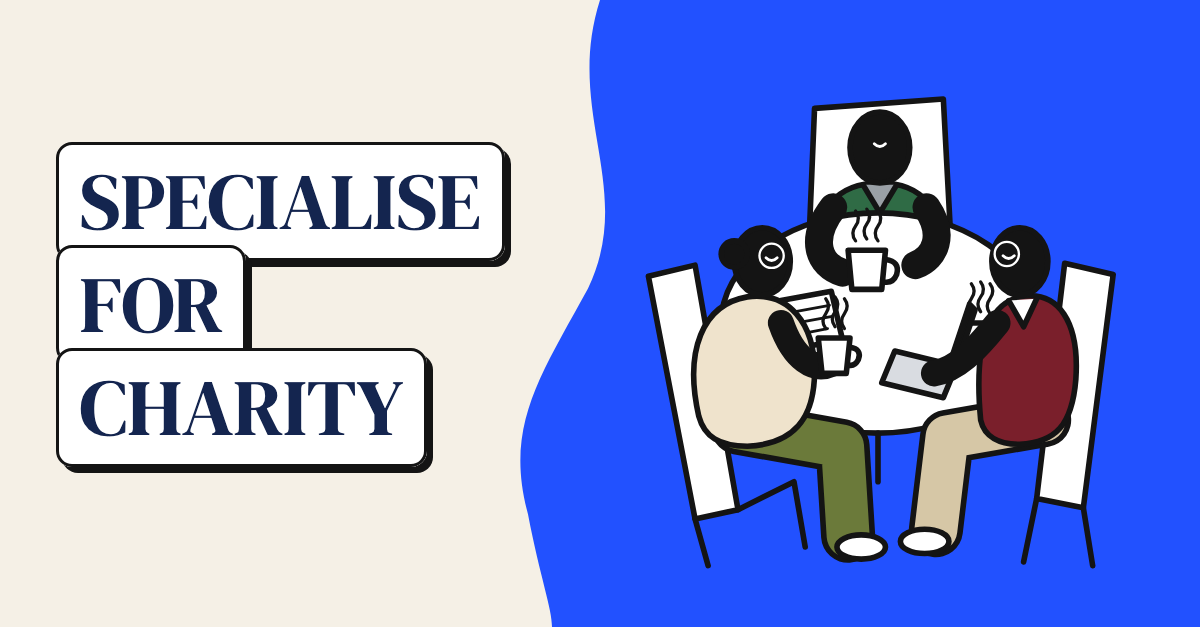
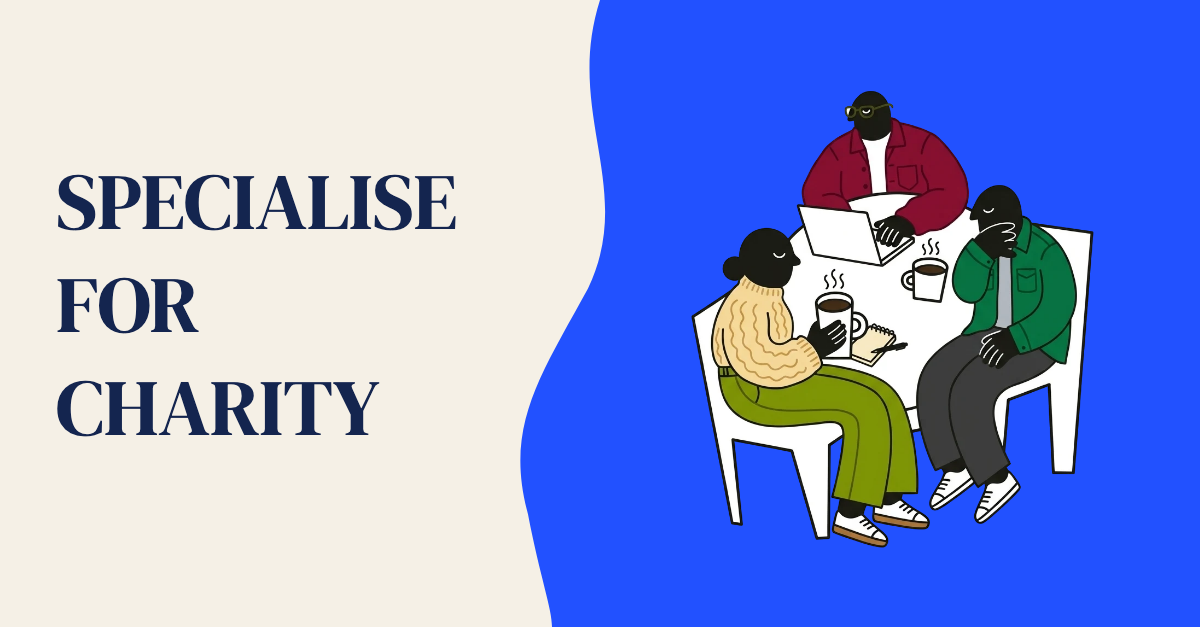
Sharing image: remake og-image.png from the new hero

diff --git a/create-profile.html b/create-profile.html
@@ -4,14 +4,14 @@
 <meta property="og:description" content="Experts share their knowledge; firms donate 100% to the expert’s chosen charity.">
 <meta property="og:url" content="https://dapperowl.netlify.app/create-profile.html">
 <meta property="og:type" content="website">
-<meta property="og:image" content="https://dapperowl.netlify.app/og-image.png">
+<meta property="og:image" content="https://dapperowl.netlify.app/og-image.png?v=2">
 <meta property="og:image:width" content="1200">
 <meta property="og:image:height" content="627">
 <meta property="og:image:alt" content="Specialise for charity: three people talking over coffee at a round table">
 <meta name="twitter:card" content="summary_large_image">
 <meta name="twitter:title" content="Dapperowl: Specialise for charity">
 <meta name="twitter:description" content="Experts share their knowledge; firms donate 100% to the expert’s chosen charity.">
-<meta name="twitter:image" content="https://dapperowl.netlify.app/og-image.png">
+<meta name="twitter:image" content="https://dapperowl.netlify.app/og-image.png?v=2">
 <meta name="twitter:image:alt" content="Specialise for charity: three people talking over coffee at a round table">
 <title>Create your profile · Dapperowl</title>
 <link rel="stylesheet" href="https://fonts.googleapis.com/css2?family=DM+Serif+Display&family=Outfit:wght@600;700&family=Source+Sans+3:wght@400;600;700&display=swap">

diff --git a/expert-dashboard.html b/expert-dashboard.html
@@ -4,14 +4,14 @@
 <meta property="og:description" content="Experts share their knowledge; firms donate 100% to the expert’s chosen charity.">
 <meta property="og:url" content="https://dapperowl.netlify.app/expert-dashboard.html">
 <meta property="og:type" content="website">
-<meta property="og:image" content="https://dapperowl.netlify.app/og-image.png">
+<meta property="og:image" content="https://dapperowl.netlify.app/og-image.png?v=2">
 <meta property="og:image:width" content="1200">
 <meta property="og:image:height" content="627">
 <meta property="og:image:alt" content="Specialise for charity: three people talking over coffee at a round table">
 <meta name="twitter:card" content="summary_large_image">
 <meta name="twitter:title" content="Dapperowl: Specialise for charity">
 <meta name="twitter:description" content="Experts share their knowledge; firms donate 100% to the expert’s chosen charity.">
-<meta name="twitter:image" content="https://dapperowl.netlify.app/og-image.png">
+<meta name="twitter:image" content="https://dapperowl.netlify.app/og-image.png?v=2">
 <meta name="twitter:image:alt" content="Specialise for charity: three people talking over coffee at a round table">
 <title>Your dashboard · Dapperowl</title>
 <link rel="stylesheet" href="https://fonts.googleapis.com/css2?family=DM+Serif+Display&family=Outfit:wght@600;700&family=Source+Sans+3:wght@400;600;700&display=swap">

diff --git a/request.html b/request.html
@@ -4,14 +4,14 @@
 <meta property="og:description" content="Experts share their knowledge; firms donate 100% to the expert’s chosen charity.">
 <meta property="og:url" content="https://dapperowl.netlify.app/request.html">
 <meta property="og:type" content="website">
-<meta property="og:image" content="https://dapperowl.netlify.app/og-image.png">
+<meta property="og:image" content="https://dapperowl.netlify.app/og-image.png?v=2">
 <meta property="og:image:width" content="1200">
 <meta property="og:image:height" content="627">
 <meta property="og:image:alt" content="Specialise for charity: three people talking over coffee at a round table">
 <meta name="twitter:card" content="summary_large_image">
 <meta name="twitter:title" content="Dapperowl: Specialise for charity">
 <meta name="twitter:description" content="Experts share their knowledge; firms donate 100% to the expert’s chosen charity.">
-<meta name="twitter:image" content="https://dapperowl.netlify.app/og-image.png">
+<meta name="twitter:image" content="https://dapperowl.netlify.app/og-image.png?v=2">
 <meta name="twitter:image:alt" content="Specialise for charity: three people talking over coffee at a round table">
 <title>Request a conversation · Dapperowl</title>
 <link rel="stylesheet" href="https://fonts.googleapis.com/css2?family=DM+Serif+Display&family=Outfit:wght@600;700&family=Source+Sans+3:wght@400;600;700&display=swap">

diff --git a/firm-dashboard.html b/firm-dashboard.html
@@ -4,14 +4,14 @@
 <meta property="og:description" content="Experts share their knowledge; firms donate 100% to the expert’s chosen charity.">
 <meta property="og:url" content="https://dapperowl.netlify.app/firm-dashboard.html">
 <meta property="og:type" content="website">
-<meta property="og:image" content="https://dapperowl.netlify.app/og-image.png">
+<meta property="og:image" content="https://dapperowl.netlify.app/og-image.png?v=2">
 <meta property="og:image:width" content="1200">
 <meta property="og:image:height" content="627">
 <meta property="og:image:alt" content="Specialise for charity: three people talking over coffee at a round table">
 <meta name="twitter:card" content="summary_large_image">
 <meta name="twitter:title" content="Dapperowl: Specialise for charity">
 <meta name="twitter:description" content="Experts share their knowledge; firms donate 100% to the expert’s chosen charity.">
-<meta name="twitter:image" content="https://dapperowl.netlify.app/og-image.png">
+<meta name="twitter:image" content="https://dapperowl.netlify.app/og-image.png?v=2">
 <meta name="twitter:image:alt" content="Specialise for charity: three people talking over coffee at a round table">
 <title>My bookings · Dapperowl</title>
 <link rel="stylesheet" href="https://fonts.googleapis.com/css2?family=DM+Serif+Display&family=Outfit:wght@600;700&family=Source+Sans+3:wght@400;600;700&display=swap">

diff --git a/legal.html b/legal.html
@@ -4,14 +4,14 @@
 <meta property="og:description" content="Experts share their knowledge; firms donate 100% to the expert’s chosen charity.">
 <meta property="og:url" content="https://dapperowl.netlify.app/legal.html">
 <meta property="og:type" content="website">
-<meta property="og:image" content="https://dapperowl.netlify.app/og-image.png">
+<meta property="og:image" content="https://dapperowl.netlify.app/og-image.png?v=2">
 <meta property="og:image:width" content="1200">
 <meta property="og:image:height" content="627">
 <meta property="og:image:alt" content="Specialise for charity: three people talking over coffee at a round table">
 <meta name="twitter:card" content="summary_large_image">
 <meta name="twitter:title" content="Dapperowl: Specialise for charity">
 <meta name="twitter:description" content="Experts share their knowledge; firms donate 100% to the expert’s chosen charity.">
-<meta name="twitter:image" content="https://dapperowl.netlify.app/og-image.png">
+<meta name="twitter:image" content="https://dapperowl.netlify.app/og-image.png?v=2">
 <meta name="twitter:image:alt" content="Specialise for charity: three people talking over coffee at a round table">
 <title>Terms and policies · Dapperowl</title>
 <link rel="stylesheet" href="https://fonts.googleapis.com/css2?family=DM+Serif+Display&family=Outfit:wght@600;700&family=Source+Sans+3:wght@400;600;700&display=swap">

diff --git a/join.html b/join.html
@@ -4,14 +4,14 @@
 <meta property="og:description" content="Experts share their knowledge; firms donate 100% to the expert’s chosen charity.">
 <meta property="og:url" content="https://dapperowl.netlify.app/join.html">
 <meta property="og:type" content="website">
-<meta property="og:image" content="https://dapperowl.netlify.app/og-image.png">
+<meta property="og:image" content="https://dapperowl.netlify.app/og-image.png?v=2">
 <meta property="og:image:width" content="1200">
 <meta property="og:image:height" content="627">
 <meta property="og:image:alt" content="Specialise for charity: three people talking over coffee at a round table">
 <meta name="twitter:card" content="summary_large_image">
 <meta name="twitter:title" content="Dapperowl: Specialise for charity">
 <meta name="twitter:description" content="Experts share their knowledge; firms donate 100% to the expert’s chosen charity.">
-<meta name="twitter:image" content="https://dapperowl.netlify.app/og-image.png">
+<meta name="twitter:image" content="https://dapperowl.netlify.app/og-image.png?v=2">
 <meta name="twitter:image:alt" content="Specialise for charity: three people talking over coffee at a round table">
 <title>Join as an expert · Dapperowl</title>
 <link rel="stylesheet" href="https://fonts.googleapis.com/css2?family=DM+Serif+Display&family=Outfit:wght@600;700&family=Source+Sans+3:wght@400;600;700&display=swap">

diff --git a/emails.html b/emails.html
@@ -4,14 +4,14 @@
 <meta property="og:description" content="Experts share their knowledge; firms donate 100% to the expert’s chosen charity.">
 <meta property="og:url" content="https://dapperowl.netlify.app/emails.html">
 <meta property="og:type" content="website">
-<meta property="og:image" content="https://dapperowl.netlify.app/og-image.png">
+<meta property="og:image" content="https://dapperowl.netlify.app/og-image.png?v=2">
 <meta property="og:image:width" content="1200">
 <meta property="og:image:height" content="627">
 <meta property="og:image:alt" content="Specialise for charity: three people talking over coffee at a round table">
 <meta name="twitter:card" content="summary_large_image">
 <meta name="twitter:title" content="Dapperowl: Specialise for charity">
 <meta name="twitter:description" content="Experts share their knowledge; firms donate 100% to the expert’s chosen charity.">
-<meta name="twitter:image" content="https://dapperowl.netlify.app/og-image.png">
+<meta name="twitter:image" content="https://dapperowl.netlify.app/og-image.png?v=2">
 <meta name="twitter:image:alt" content="Specialise for charity: three people talking over coffee at a round table">
 <title>Email designs · Dapperowl</title>
 <link rel="stylesheet" href="https://fonts.googleapis.com/css2?family=DM+Serif+Display&family=Outfit:wght@600;700&family=Source+Sans+3:wght@400;600;700&display=swap">

diff --git a/find.html b/find.html
@@ -4,14 +4,14 @@
 <meta property="og:description" content="Experts share their knowledge; firms donate 100% to the expert’s chosen charity.">
 <meta property="og:url" content="https://dapperowl.netlify.app/find.html">
 <meta property="og:type" content="website">
-<meta property="og:image" content="https://dapperowl.netlify.app/og-image.png">
+<meta property="og:image" content="https://dapperowl.netlify.app/og-image.png?v=2">
 <meta property="og:image:width" content="1200">
 <meta property="og:image:height" content="627">
 <meta property="og:image:alt" content="Specialise for charity: three people talking over coffee at a round table">
 <meta name="twitter:card" content="summary_large_image">
 <meta name="twitter:title" content="Dapperowl: Specialise for charity">
 <meta name="twitter:description" content="Experts share their knowledge; firms donate 100% to the expert’s chosen charity.">
-<meta name="twitter:image" content="https://dapperowl.netlify.app/og-image.png">
+<meta name="twitter:image" content="https://dapperowl.netlify.app/og-image.png?v=2">
 <meta name="twitter:image:alt" content="Specialise for charity: three people talking over coffee at a round table">
 <title>Find an expert · Dapperowl</title>
 <link rel="stylesheet" href="https://fonts.googleapis.com/css2?family=DM+Serif+Display&family=Outfit:wght@600;700&family=Source+Sans+3:wght@400;600;700&display=swap">

diff --git a/signin.html b/signin.html
@@ -4,14 +4,14 @@
 <meta property="og:description" content="Experts share their knowledge; firms donate 100% to the expert’s chosen charity.">
 <meta property="og:url" content="https://dapperowl.netlify.app/signin.html">
 <meta property="og:type" content="website">
-<meta property="og:image" content="https://dapperowl.netlify.app/og-image.png">
+<meta property="og:image" content="https://dapperowl.netlify.app/og-image.png?v=2">
 <meta property="og:image:width" content="1200">
 <meta property="og:image:height" content="627">
 <meta property="og:image:alt" content="Specialise for charity: three people talking over coffee at a round table">
 <meta name="twitter:card" content="summary_large_image">
 <meta name="twitter:title" content="Dapperowl: Specialise for charity">
 <meta name="twitter:description" content="Experts share their knowledge; firms donate 100% to the expert’s chosen charity.">
-<meta name="twitter:image" content="https://dapperowl.netlify.app/og-image.png">
+<meta name="twitter:image" content="https://dapperowl.netlify.app/og-image.png?v=2">
 <meta name="twitter:image:alt" content="Specialise for charity: three people talking over coffee at a round table">
 <title>Sign in · Dapperowl</title>
 <link rel="stylesheet" href="https://fonts.googleapis.com/css2?family=DM+Serif+Display&family=Outfit:wght@600;700&family=Source+Sans+3:wght@400;600;700&display=swap">

diff --git a/index.html b/index.html
@@ -4,14 +4,14 @@
 <meta property="og:description" content="Experts share their knowledge; firms donate 100% to the expert’s chosen charity.">
 <meta property="og:url" content="https://dapperowl.netlify.app/">
 <meta property="og:type" content="website">
-<meta property="og:image" content="https://dapperowl.netlify.app/og-image.png">
+<meta property="og:image" content="https://dapperowl.netlify.app/og-image.png?v=2">
 <meta property="og:image:width" content="1200">
 <meta property="og:image:height" content="627">
 <meta property="og:image:alt" content="Specialise for charity: three people talking over coffee at a round table">
 <meta name="twitter:card" content="summary_large_image">
 <meta name="twitter:title" content="Dapperowl: Specialise for charity">
 <meta name="twitter:description" content="Experts share their knowledge; firms donate 100% to the expert’s chosen charity.">
-<meta name="twitter:image" content="https://dapperowl.netlify.app/og-image.png">
+<meta name="twitter:image" content="https://dapperowl.netlify.app/og-image.png?v=2">
 <meta name="twitter:image:alt" content="Specialise for charity: three people talking over coffee at a round table"><title>Dapperowl</title>
 <title>Dapperowl Prototype</title>
 <meta name="claude:viewport-fit-sides" content="cover">
